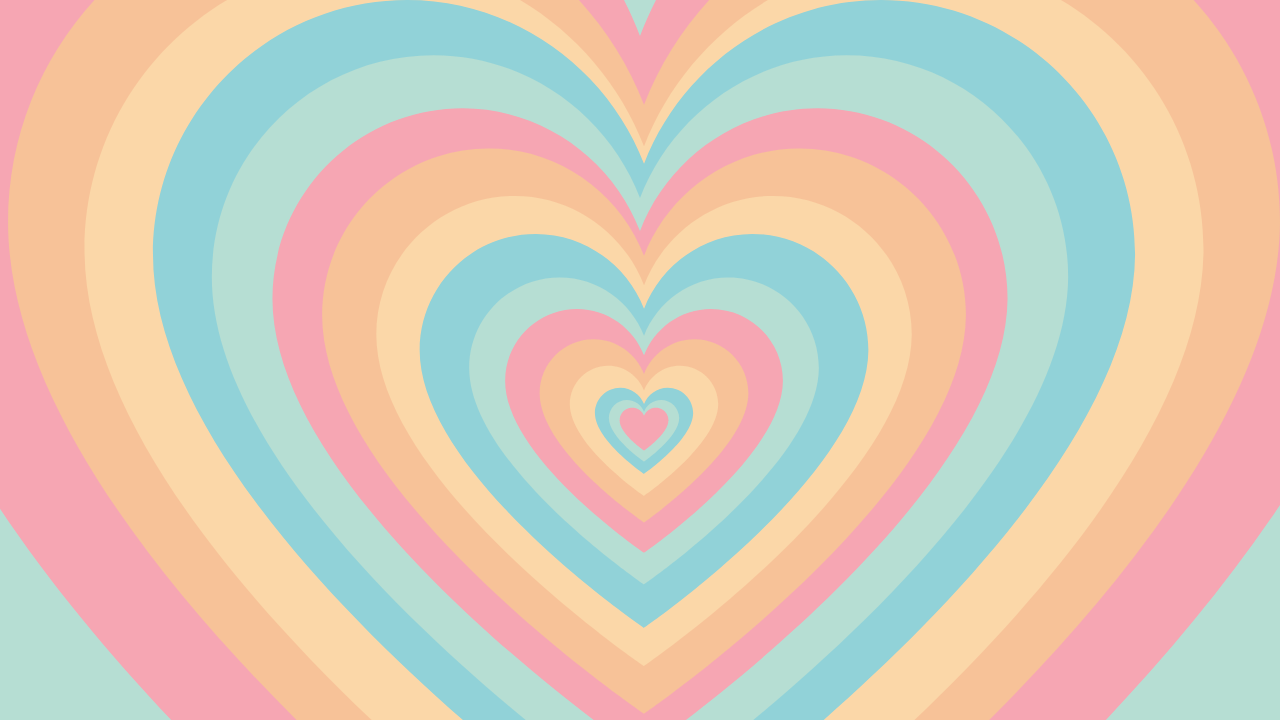
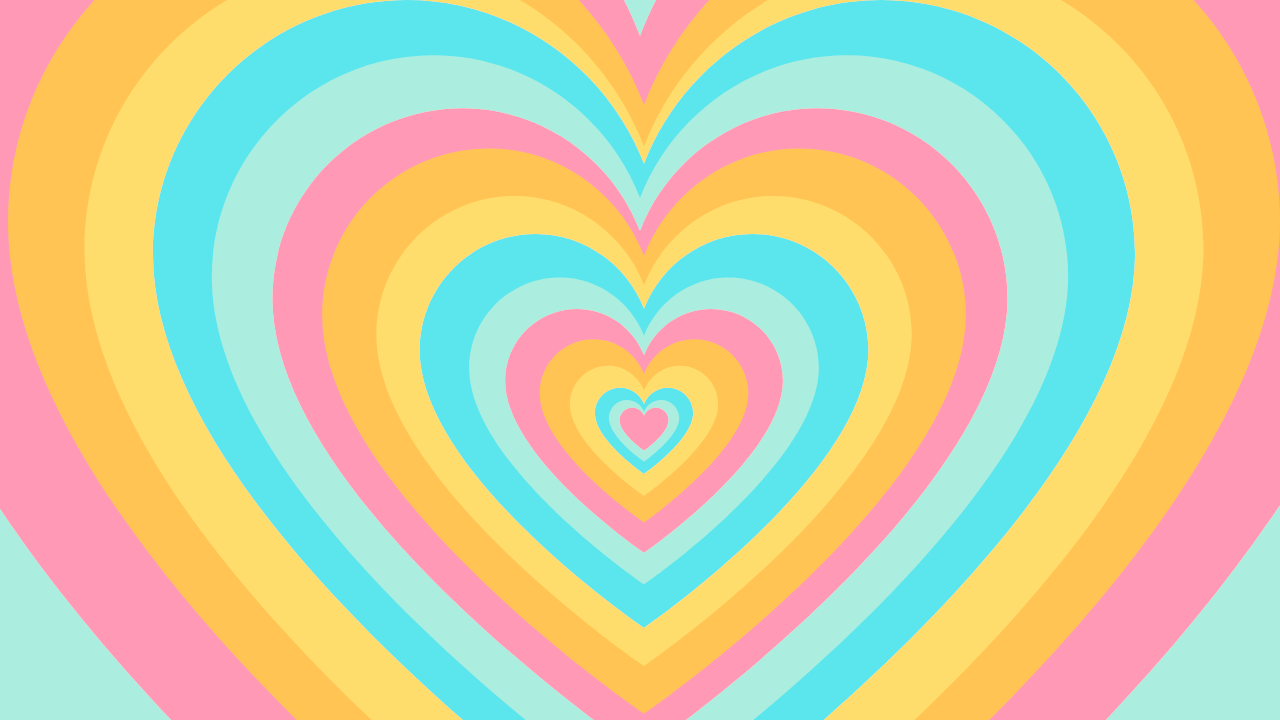
urrrggh

diff --git a/index.html b/index.html
@@ -26,14 +26,14 @@
         <!-- ==================== HOME SECTION ==================== -->
         <section id="home" class="page-section active">
           <div class="event-ticket">
-            <img class="ticket-img" src="" alt="Event preview">
+            <img class="ticket-img" src="https://cdn.vor.us/event/700668/og/2e9f1ff22572433f9a32c16b9d9db1cc.image!jpeg.1531838.jpg.ANIME-Impulse-LA-2027.jpg" alt="Event preview">
             <div class="ticket-body">
               <div class="ticket-header">
                 <span class="ticket-badge">★ NEXT EVENT ★</span>
-                <span class="ticket-date">WIP MM DD</span>
+                <span class="ticket-date">JAN 16-17</span>
               </div>
-              <div class="ticket-title">WIP</div>
-              <p class="ticket-desc">WIP</p>
+              <div class="ticket-title">ANIME Impulse Los Angeles 2027</div>
+              <p class="ticket-desc">Dive Into a World of Anime Awesomeness at ANIME Impulse™!</p>
             </div>
             <a href="#" class="ticket-stub">
               <span>ADMIT<br>ONE</span>
@@ -52,8 +52,8 @@
               <img src="assets/images/not-mine/stamps/gummyworms.png"
                 style="position: absolute; left: 85px; top: 0; height: 40px;">
               <img src="assets/images/art/2026-11-08_sugar.png" width="180" style="z-index: 1; margin-left: 40px;">
-              <img src="assets/images/not-mine/buttons/freewareguide.gif"
-                style="z-index: 2; position: absolute; right: 15px; bottom: 110px; height: 25px;">
+              <img src="assets/images/not-mine/buttons/handpainted.gif"
+                style="z-index: 2; position: absolute; right: 15px; bottom: 70px; height: 25px;">
               <img
                 src="assets/images/not-mine/stamps/twinbee_rainbow_bell_adventure_logo_japan__by_ringostarr39_d6t1rvk-414w-2x.png"
                 style="z-index: 2; position: absolute; right: 0; bottom: -36px; height: 100px;">
@@ -98,16 +98,14 @@
               <div class="newest-grid">
                 <a href="#art" id="newest-art-card" class="update-card box-yellow">
                   <span class="card-tag">ART</span>
-                  <img id="newest-art-img" src="" alt=""
-                    style="width: 80px;
+                  <img id="newest-art-img" src="" alt="" style="width: 80px;
   height: 80px; object-fit: cover; align-self: center;">
                   <div id="newest-art-title" class="card-title" style="font-size: 12px; margin-top: 4px;"></div>
                 </a>
 
                 <a href="#shop" class="update-card box-blue">
                   <span class="card-tag">SHOP</span>
-                  <img src="" alt=""
-                    style="width: 80px;
+                  <img src="" alt="" style="width: 80px;
   height: 80px; object-fit: cover; align-self: center;">
                 </a>
 
@@ -117,9 +115,11 @@
                   <p id="newest-diary-desc" class="card-desc">Entry description.</p>
                 </a>
               </div>
-
             </div>
           </div>
+          <iframe src="https://www3.cbox.ws/box/?boxid=3559354&boxtag=4m1VRs" width="100%" height="200"
+            allowtransparency="yes" allow="autoplay" frameborder="0" marginheight="0" marginwidth="0"
+            scrolling="auto"></iframe>
         </section>
 
         <!-- ==================== ART SECTION ==================== -->
@@ -141,12 +141,13 @@
             <aside class="shop-sidebar" aria-label="Product categories">
               <button type="button" class="shop-cat-btn active" data-category="all">ALL ITEMS</button>
               <button type="button" class="shop-cat-btn" data-category="buttons">BUTTONS</button>
+              <button type="keychains" class="shop-cat-btn" data-category="keychains">KEYCHAINS</button>
             </aside>
 
             <div class="shop-grid" id="shop-grid"></div>
           </div>
         </section>
-        
+
       </div> <!-- end of #scroll-area -->
 
       <!-- ==================== DOCKED RAINBOW MUSIC PLAYER ==================== -->
@@ -184,10 +185,10 @@
       <!-- ==================== END MUSIC PLAYER ==================== -->
 
     </div> <!-- end of #web-container-content -->
-    </div>
+  </div>
   </div>
 
-  
+
   <!-- FULLSCREEN LIGHTBOX MODAL -->
   <div id="art-lightbox" class="lightbox" aria-hidden="true">
     <div class="lightbox-box">
@@ -224,8 +225,8 @@
       <div id="dm-body" class="dm-body"></div>
     </div>
   </div>
-  
- <script>
+
+  <script>
     const sections = document.querySelectorAll('.page-section');
     const navLinks = document.querySelectorAll('nav a[data-tab]');
     const scrollArea = document.getElementById('scroll-area');
@@ -274,7 +275,7 @@
     function parseFilename(filename) {
       const clean = filename.replace(/\.[^/.]+$/, ''); // strip extension
       const [rawDate, rawName] = clean.split('_');
-      const months = ['jan','feb','mar','apr','may','jun','jul','aug','sep','oct','nov','dec'];
+      const months = ['jan', 'feb', 'mar', 'apr', 'may', 'jun', 'jul', 'aug', 'sep', 'oct', 'nov', 'dec'];
 
       let formattedDate = '';
       if (rawDate && /^\d{4}-\d{2}-\d{2}$/.test(rawDate)) {
@@ -303,7 +304,7 @@
       if (newestArtTitle) newestArtTitle.textContent = title;
     }
 
-   const lbKofi = document.getElementById('lb-kofi');
+    const lbKofi = document.getElementById('lb-kofi');
 
     function openLightbox(index) {
       if (!artData.length) return;
@@ -323,7 +324,7 @@
 
       lightbox.classList.add('open');
     }
-    
+
     function renderArtGrid() {
       artGrid.innerHTML = '';
       updateNewestArtCard();
@@ -366,29 +367,29 @@
     });
 
     function updateNewestShopCard(items) {
-  const newestShopCard = document.querySelector('.newest-grid .box-blue');
-  if (!newestShopCard || !Array.isArray(items) || !items.length) return;
+      const newestShopCard = document.querySelector('.newest-grid .box-blue');
+      if (!newestShopCard || !Array.isArray(items) || !items.length) return;
 
-  const latest = items[0];
-  let imgEl = newestShopCard.querySelector('img');
-  if (!imgEl) {
-    imgEl = document.createElement('img');
-    imgEl.style.cssText = 'width: 90px; height: 90px; object-fit: cover; align-self: center;';
-    newestShopCard.appendChild(imgEl);
-  }
+      const latest = items[0];
+      let imgEl = newestShopCard.querySelector('img');
+      if (!imgEl) {
+        imgEl = document.createElement('img');
+        imgEl.style.cssText = 'width: 90px; height: 90px; object-fit: cover; align-self: center;';
+        newestShopCard.appendChild(imgEl);
+      }
 
-  imgEl.src = latest.img || '';
-  imgEl.alt = latest.name || 'Newest shop item';
+      imgEl.src = latest.img || '';
+      imgEl.alt = latest.name || 'Newest shop item';
 
-  let titleEl = newestShopCard.querySelector('.card-title');
-  if (!titleEl) {
-    titleEl = document.createElement('div');
-    titleEl.className = 'card-title';
-    titleEl.style.cssText = 'font-size: 12px; margin-top: 4px;';
-    newestShopCard.appendChild(titleEl);
-  }
-  titleEl.textContent = latest.name || '';
-}
+      let titleEl = newestShopCard.querySelector('.card-title');
+      if (!titleEl) {
+        titleEl = document.createElement('div');
+        titleEl.className = 'card-title';
+        titleEl.style.cssText = 'font-size: 12px; margin-top: 4px;';
+        newestShopCard.appendChild(titleEl);
+      }
+      titleEl.textContent = latest.name || '';
+    }
 
     // ==================== RAINBOW JUKEBOX PLAYER ====================
     const tracks = [
@@ -666,35 +667,35 @@
 
     const cacheBust = `?t=${Date.now()}`;
 
-fetch(`art.json${cacheBust}`)
-  .then(res => res.json())
-  .then(data => {
-    artData = Array.isArray(data) ? data : [];
-    updateNewestArtCard();
-    renderArtGrid();
-  })
-  .catch(err => console.error('Failed to load art.json:', err));
+    fetch(`art.json${cacheBust}`)
+      .then(res => res.json())
+      .then(data => {
+        artData = Array.isArray(data) ? data : [];
+        updateNewestArtCard();
+        renderArtGrid();
+      })
+      .catch(err => console.error('Failed to load art.json:', err));
 
-fetch(`diary.json${cacheBust}`)
-  .then(res => res.json())
-  .then(data => {
-    const entries = Array.isArray(data) ? data : [];
-    updateNewestDiaryCard(entries);
-    renderDiaryBoard(entries);
-  })
-  .catch(err => console.error('Failed to load diary.json:', err));
+    fetch(`diary.json${cacheBust}`)
+      .then(res => res.json())
+      .then(data => {
+        const entries = Array.isArray(data) ? data : [];
+        updateNewestDiaryCard(entries);
+        renderDiaryBoard(entries);
+      })
+      .catch(err => console.error('Failed to load diary.json:', err));
 
-fetch(`shop.json${cacheBust}`)
-  .then(res => (res.ok ? res.json() : []))
-  .then(data => {
-    shopData = Array.isArray(data) ? data : [];
-    updateNewestShopCard(shopData);
-    renderShopGrid();
-  })
-  .catch(err => {
-    console.error('Failed to load shop.json:', err);
-    renderShopGrid();
-  });
+    fetch(`shop.json${cacheBust}`)
+      .then(res => (res.ok ? res.json() : []))
+      .then(data => {
+        shopData = Array.isArray(data) ? data : [];
+        updateNewestShopCard(shopData);
+        renderShopGrid();
+      })
+      .catch(err => {
+        console.error('Failed to load shop.json:', err);
+        renderShopGrid();
+      });
   </script>
 </body>
 

diff --git a/stylesheet.css b/stylesheet.css
@@ -35,7 +35,7 @@
 }
 
 body {
-    background-image: url('/assets/images/not-mine/bg.png');
+    background-image: url('/assets/images/not-mine/2686e8e3dce55eb847b592ae620284d3.png');
     background-size: cover;
     background-position: center;
     min-height: 100vh;
